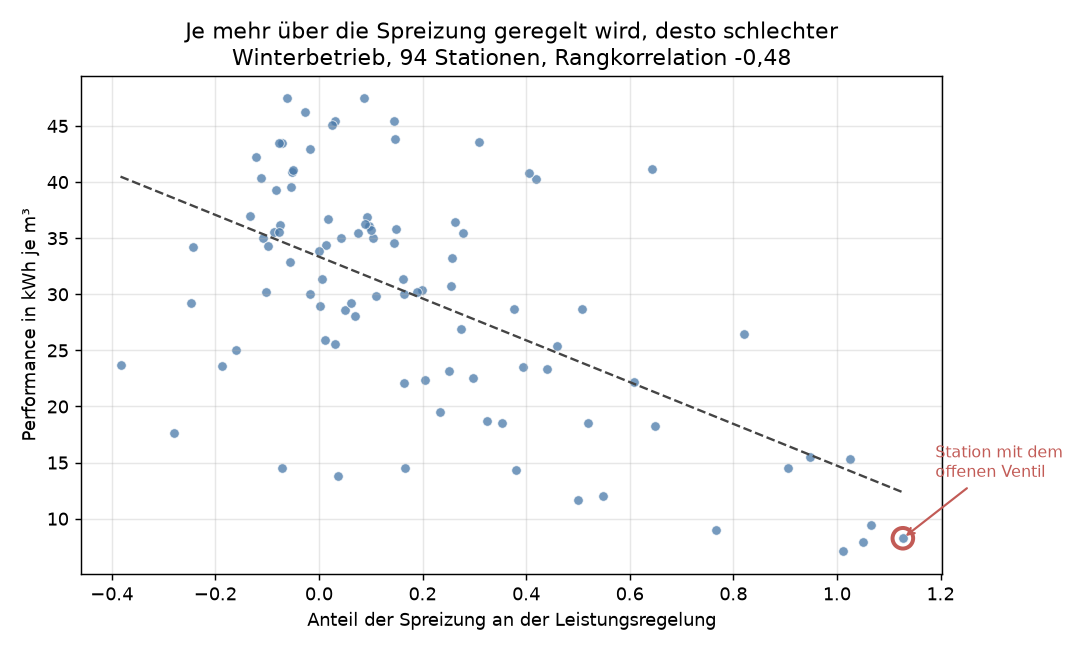
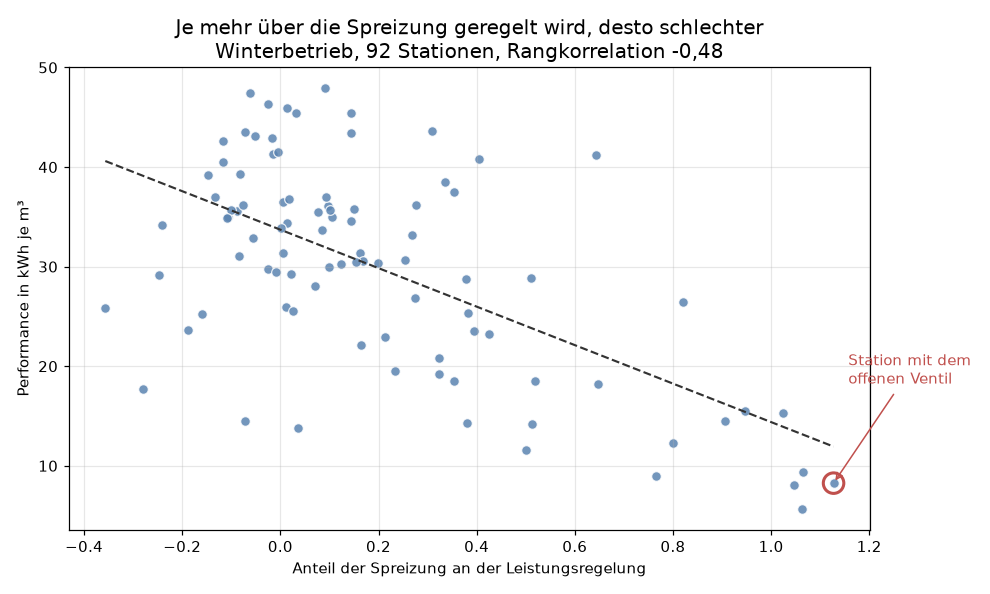
Doku: Stationsbilder und Befunde als Brücke vom Clustering zum Monitoring
- Seite als Geschichte in vier Schritten (NB 11 bis 14), jeder endet mit
  der Frage des nächsten; Einstieg aus dem Clustering, Ausstieg ins
  Monitoring (NB 18, 19, 20), Fallsammlung (NB 15) ergänzt.
- Zahlen gegen NB 11 bis 15 geprüft: Folie gegen Daten (Regelung statt
  Lage umgekehrt), Kennlinie vorher, Monitor gegen 53 Begehungen,
  Schwellenversuche, Residuenkanal, zweiter Ausschlag im Juni 2025.
- Bilder auf den aktuellen Stand: Trefferquote aus NB 14, Spreizung gegen
  Performance mit 92 Stationen neu gezeichnet.
- Überholtes entfernt (Stand 18.11., beantwortete Frage Monitor oder
  Clustering, doppelte ÜZ-Fragen mit Link auf die Grenzen-Seite).
- Clustering- und Monitoring-Überblick je ein kurzer Absatz als Anschluss.

diff --git a/docs/stationsbilder/index.md b/docs/stationsbilder/index.md
@@ -1,32 +1,51 @@
-# Stationsbilder, Kennlinienmonitor und Befunde (Notebooks 11 bis 14)
+# Stationsbilder und Befunde
 
-Stand 18.11.2026, 93 HAST. Vier Schritte, die aufeinander aufbauen. Die Fallsammlung in Notebook 15 ergänzt sie.
+**Notebooks 11 bis 15:** `notebooks/4_stationsbilder/` · **Code:** `src/ternaer.py`, `src/stationsbilder.py`,
+`src/kennlinien_monitor.py`, `src/befundcodes.py`, `src/fallsammlung.py`, Tests in den gleichnamigen Dateien unter
+`tests/`
 
-| Notebook | Frage | Ergebnis | Nutzbar? |
-|---|---|---|---|
-| 11 Ternär | Lässt sich die ÜZ-Folie nachbauen? | ja, aber die Folienaussage hat das falsche Vorzeichen | als Werkzeug nein, als Befund ja |
-| 12 Stationsbilder | Gibt es bessere Darstellungen? | Kennlinie und Carpet sind deutlich besser lesbar | ja, für Menschen |
-| 13 Kennlinienmonitor | Lässt sich das automatisieren? | Prinzip funktioniert, am bekannten Fall sehr klar, über alle Stationen nicht signifikant | Prototyp |
-| 14 Befunde | Liegt es an den Labels? | ja; mit besseren Labels trennt der Monitor | ja |
+## Woher wir kommen
 
-**Testfall für alles ist Zähler 68956351:** Dort stand ein Ventil drei Jahre offen und wurde im September 2024 repariert. Das ist der einzige Fall, bei dem wir aus den Messdaten sicher wissen, was passiert ist.
+Das [Clustering](../clustering/index.md) hat zwei Dinge gezeigt. Die Stationen zerfallen nicht in klare Typen, aber
+jede Station prägt ihre eigenen Tage. Ein Altbau mit Heizkörpern und ein Neubau mit Fußbodenheizung sehen verschieden
+aus, ohne dass etwas kaputt ist. Ein Vergleich der Stationen untereinander trägt deshalb nicht weit.
 
-## 1 Ternärdiagramme (Notebook 11)
+Dieser Teil geht den umgekehrten Weg. Er sieht sich einzelne Stationen genauer an und vergleicht sie am Ende mit sich
+selbst. In vier Schritten, von denen jeder die Frage des vorigen aufnimmt, entsteht so die Idee, auf der später das
+[Monitoring](../monitoring/index.md) aufbaut.
 
-**Idee:** Eine Station kann ihre Leistung über mehr Wasser (Volumenstrom) oder über mehr Wärmeentzug (Spreizung) anpassen. Das Dreieck zeigt, welcher Weg gerade benutzt wird.
+**Testfall ist Zähler 68956351.** Dort stand ein Ventil rund drei Jahre offen, im September 2024 wurden Ventil und
+Stellmotor getauscht (siehe [Einzelfall](../begehungen/wirkung.md#einzelfall-68956351)). Es ist der einzige Fall, bei
+dem wir aus den Messdaten sicher wissen, was passiert ist. Jeder Ansatz muss ihn finden.
+
+| Schritt | Notebook | Frage | Ergebnis | Nutzbar? |
+|---|---|---|---|---|
+| 1 | 11 Ternär | Lässt sich die Folie der ÜZ nachbauen? | ja, aber ihre Aussage zur Regelung über die Spreizung kehrt sich bei uns um | als Befund ja, als Werkzeug nein |
+| 2 | 12 Stationsbilder | Kann man besser hinsehen? | Kennlinie, Carpet-Plot und Dauerlinie zeigen den Ventilfall auf einen Blick | ja, für das Auge |
+| 3 | 13 Kennlinienmonitor | Lässt sich das automatisieren? | am bekannten Fall sehr klar, gegen alle Begehungen nicht signifikant | Prototyp |
+| 4 | 14 Befunde | Liegt es an den Labels? | ja, mechanische Eingriffe trifft der Monitor häufiger als Zufall | erste Prüfung über dem Zufall |
+
+## 1 Lässt sich die Folie der ÜZ nachbauen? (Notebook 11)
+
+**Idee:** Eine Station kann ihre Leistung über mehr Wasser (Volumenstrom) oder über mehr Wärmeentzug (Spreizung)
+anpassen. Die ÜZ hat das auf einer Folie als Dreieck gezeigt. Das Dreieck zeigt, welcher Weg gerade benutzt wird.
 
 ![Ternärdiagramme](../assets/stationsbilder/ueberblick_ternaer.png)
 
-- sechs Dreiecke für dieselbe Station: oben vor / während / nach der Begehung, unten die drei Jahreszeiten
-- jeder Punkt ist eine Betriebsstunde, Farbe = Effizienz (gelb gut, blau schlecht)
-- vorher Median 3,4 kWh/m³, nachher 36,4, also Faktor zehn
+- Sechs Dreiecke für dieselbe Station: oben vor, während und nach der Begehung, unten die drei Jahreszeiten.
+- Jeder Punkt ist eine Betriebsstunde, die Farbe ist die Effizienz (gelb gut, blau schlecht).
+- Vorher liegt der Median bei 3,4 kWh/m³, nachher bei 36,4, also rund zehnmal so hoch.
 
 ![Spreizung gegen Performance](../assets/stationsbilder/ueberblick_modulation.png)
 
-- jeder Punkt eine Station im Winter: waagerecht der Anteil Spreizungsregelung, senkrecht die Effizienz
-- je mehr Spreizungsregelung, desto schlechter (Rangkorrelation −0,48)
-- Auf der ÜZ-Folie ist die Spreizungsecke die gute Ecke. Bei uns ist es umgekehrt.
-- Erklärung: Eine Station mit festsitzendem Ventil kann gar nicht über den Volumenstrom regeln und landet deshalb automatisch dort.
+- Jeder Punkt ist eine Station im Winter: waagerecht der Anteil der Spreizung an der Leistungsregelung, senkrecht die
+  Effizienz.
+- Die Folie sagt: Wer über die Spreizung regelt, arbeitet effizient. Bei uns ist es umgekehrt. Je größer der Anteil
+  der Spreizung, desto schlechter (Rangkorrelation −0,48, 92 Stationen).
+- Die Lage der Punktwolke nahe der Spreizungsecke ist dagegen auch bei uns ein gutes Zeichen (+0,75). Vielleicht meint
+  die Folie die Lage und nicht die Regelung.
+- Erklärung: Eine Station mit festsitzendem Ventil kann ihre Leistung nur noch über die Spreizung ändern und zählt
+  deshalb automatisch als spreizungsgeregelt. 68956351 liegt im Bild ganz rechts unten.
 
 **Funktioniert:**
 
@@ -35,118 +54,168 @@ Stand 18.11.2026, 93 HAST. Vier Schritte, die aufeinander aufbauen. Die Fallsamm
 
 **Funktioniert nicht:**
 
-- Stationstypen clustern: drei Gruppen trennen die Effizienz um Faktor 3,7, aber die Silhouette liegt nur bei 0,319. Eher ein Gefälle als echte Typen.
+- Stationstypen clustern: Drei Gruppen trennen die Effizienz um Faktor 3,7, aber die Silhouette liegt nur bei 0,319.
+  Das ist eher ein Gefälle als echte Typen.
 - Die Regelungsart ändert sich durch die Begehung nicht (p = 0,70 auf Stunden-, 0,34 auf Tagesebene).
 
-**Fazit:** guter Befund zum Vorzeichen, aber zur Fehlererkennung taugt das Dreieck nicht. Es normiert die Leistung weg.
+**Daraus folgt:** Das Dreieck ist ein guter Befund zum Vorzeichen, aber kein Werkzeug zur Fehlererkennung. Es rechnet
+die Größen auf Anteile um und verliert dabei das Niveau, also wie viel Wasser fließt und wie warm es zurückkommt.
+Gesucht sind Bilder, die das Niveau zeigen.
 
-## 2 Kennlinie, Carpet-Plot, Dauerlinie (Notebook 12)
+## 2 Kann man besser hinsehen? (Notebook 12)
 
 ### Kennlinie
 
 ![Kennlinie](../assets/stationsbilder/ueberblick_kennlinie.png)
 
-- waagerecht Leistung, senkrecht Volumenstrom, beides logarithmisch. Farbe = Rücklauftemperatur.
-- vor der Begehung: flache rote Wolke. Egal wie viel Leistung, es fließen immer 500 bis 1000 l/h, Rücklauf über 70 °C. So sieht ein offenes Ventil aus.
-- nach der Begehung: saubere Gerade mit Steigung 1,28, Rücklauf blau
-- Die Steigung ist rechnerisch derselbe Wert wie der Durchflussanteil aus dem Dreieck. Zusätzlich sieht man, ob die Punkte überhaupt auf einer Linie liegen (R² im Median 0,02 bei flacher, 0,81 bei steiler Steigung).
+- Waagerecht die Leistung, senkrecht der Volumenstrom, beides logarithmisch. Die Farbe ist die Rücklauftemperatur.
+- Vor der Begehung: eine flache rote Wolke. Egal wie viel Leistung, es fließen rund 600 l/h (500 bis 1.000), der
+  Rücklauf liegt bei 65 bis 75 °C. So sieht ein offenes Ventil aus.
+- Nach der Begehung: eine saubere Gerade mit Steigung 1,28, der Rücklauf ist blau.
+- Die Steigung ist rechnerisch derselbe Wert wie der Durchflussanteil aus dem Dreieck. Zusätzlich sieht man, ob die
+  Punkte überhaupt auf einer Linie liegen (R² im Median 0,02 bei flacher, 0,81 bei steiler Steigung).
 
 ### Carpet-Plot
 
 ![Carpet-Plot](../assets/stationsbilder/ueberblick_carpet.png)
 
-- waagerecht die Kalenderzeit, senkrecht die Tagesstunde. Oben Rücklauf, unten Volumenstrom.
-- Ende 2022 bis September 2024: durchgehend rot, Tag und Nacht, Sommer wie Winter
-- danach blau mit Tagesstruktur (Nachtabsenkung, Warmwasserspitze morgens)
-- Nebenbefund: bis Ende 2022 lieferte die Station nur einen Wert pro Tag statt 24
+- Waagerecht die Kalenderzeit, senkrecht die Tagesstunde. Oben der Rücklauf, unten der Volumenstrom.
+- Ende 2022 bis September 2024: durchgehend rot, Tag und Nacht, Sommer wie Winter.
+- Danach blau mit Tagesstruktur (Nachtabsenkung, Warmwasserspitze am Morgen).
+- Nebenbefund: Bis Ende 2022 lieferte die Station nur einen Wert pro Tag statt 24.
 
 ### Dauerlinie
 
 ![Dauerlinie](../assets/stationsbilder/ueberblick_dauerlinie.png)
 
-- alle Stundenwerte nach Größe sortiert: in wie viel Prozent der Zeit wird ein Wert überschritten
-- vorher liegt der Rücklauf fast durchgehend über 50 °C, nachher nur noch in ca. 40 % der Zeit
-- einzige der drei Darstellungen, die über alle Stationen einen Begehungseffekt andeutet: Der Anteil der Stunden über 50 °C sinkt um 1,4 Prozentpunkte (47 Stationen, p = 0,096, nicht gesichert). Die Kennliniensteigung zeigt nichts (p = 0,67).
+- Alle Stundenwerte nach Größe sortiert: In wie viel Prozent der Zeit wird ein Wert überschritten?
+- Vorher liegt der Rücklauf fast durchgehend über 50 °C, nachher nur noch in rund 40 % der Zeit.
+- Als einzige der drei Darstellungen deutet sie über alle Stationen einen Begehungseffekt an: Der Anteil der Stunden
+  über 50 °C sinkt um 1,4 Prozentpunkte (47 Stationen, p = 0,096, nicht gesichert). Die Kennliniensteigung zeigt
+  nichts (p = 0,67).
 
-**Funktioniert:** Die Darstellungen messen verschiedene Dinge. Die zehn auffälligsten Stationen nach Kennlinienstreuung und nach warmem Rücklauf überschneiden sich gar nicht.
+**Funktioniert:** Die Darstellungen messen verschiedene Dinge. Die zehn auffälligsten Stationen nach
+Kennlinienstreuung und nach warmem Rücklauf überschneiden sich gar nicht.
 
-**Achtung:** Die Performance in kWh/m³ ist auf Stundenebene dasselbe wie die Spreizung (Performance = 1,163 × ΔT). Korrelationen gegen die Performance beweisen deshalb wenig. Unabhängig sind nur Prüfungen gegen die Begehungen.
+**Achtung:** Die Performance in kWh/m³ ist auf Stundenebene dasselbe wie die Spreizung (Performance = 1,163 × ΔT).
+Korrelationen gegen die Performance beweisen deshalb wenig. Unabhängig sind nur Prüfungen gegen die Begehungen.
 
-**Fazit:** gute Diagnosebilder, aber 93 Stationen von Hand anschauen ist keine Automatisierung.
+**Daraus folgt:** Die Bilder zeigen den Ventilfall auf einen Blick, aber 93 Stationen von Hand anzuschauen ist keine
+Automatisierung. Die Kennlinie eignet sich jedoch als eigenes Modell jeder Station. Wenn sie sich plötzlich
+verschiebt, ist etwas passiert.
 
-## 3 Kennlinienmonitor (Notebook 13)
+## 3 Die Station mit sich selbst vergleichen (Notebook 13)
 
-**Idee:** Bisher wurden Stationen untereinander verglichen. Das scheitert, weil ein Altbau mit Heizkörpern und ein Neubau mit Fußbodenheizung ganz verschieden aussehen, ohne dass etwas kaputt ist. Der Monitor vergleicht jede Station nur mit sich selbst: Hat sich die Kennlinie gegenüber den Wochen davor plötzlich verschoben? Das braucht keine Labels.
+**Idee:** Der Kennlinienmonitor vergleicht jede Station nur mit sich selbst. Hat sich ihre Kennlinie gegenüber den
+Wochen davor plötzlich verschoben? Das braucht keine Labels, und Altbau und Neubau stören sich nicht mehr gegenseitig.
 
 ![Monitorverlauf](../assets/stationsbilder/ueberblick_monitor_verlauf.png)
 
-- oben: Steigung der Kennlinie. Zwei Jahre flach bei null (offenes Ventil), am Begehungstermin Sprung auf 1,4.
-- Mitte: Abweichung vom gewohnten Arbeitspunkt. Vorher konstant bei ca. +0,8, danach im Minus.
-- unten: Alarmkanal. Der Ausschlag am 12.09.2024 erreicht 74, der größte Wert der ganzen Historie, drei Tage nach der Begehung.
+- Oben die Steigung der Kennlinie: zwei Jahre flach bei null (offenes Ventil), am Begehungstermin ein Sprung auf rund
+  1,4.
+- In der Mitte die Abweichung vom gewohnten Arbeitspunkt: vorher meist zwischen +0,5 und +0,8, danach im Minus.
+- Unten der Alarmkanal: Der Ausschlag am 12.09.2024 erreicht 74, der größte Wert in der Geschichte dieser Station, drei
+  Tage nach der Begehung. Der zweite große Ausschlag im Juni 2025 (knapp 50) ist ungeklärt.
 
-Der Monitor findet den bekannten Fall, ohne zu wissen, wonach er sucht.
+Der Monitor findet den bekannten Fall, ohne zu wissen, wonach er sucht. Der erste Entwurf fand ihn nicht: Im Juli und
+August 2024 läuft die Station nur rund 60 Stunden im Monat, ein starres 14-Tage-Fenster hat dann zu wenige Punkte.
+Das Fenster dehnt sich jetzt bis auf 60 Tage.
 
-Der erste Entwurf fand ihn nicht: Im Juli und August 2024 läuft die Station nur rund 60 Stunden im Monat, ein starres 14-Tage-Fenster hat dann zu wenige Punkte. Das Fenster dehnt sich jetzt bis auf 60 Tage.
-
-**Funktioniert:** Das Prinzip, und der bekannte Fall sehr deutlich.
+**Funktioniert:** das Prinzip, und der bekannte Fall sehr deutlich.
 
 **Funktioniert nicht:**
 
-- Über alle 93 Stationen nur 25 bis 34 % über Zufall, nicht signifikant (p = 0,10 und 0,077)
-- 16 Einstellungen probiert, keine wird belastbar signifikant
+- Gegen alle 53 Begehungen mit Monitorverlauf liegt die Trefferquote nur 25 bis 34 % über Zufall, nicht signifikant
+  (p = 0,10 und 0,077).
+- 16 Einstellungen wurden probiert. Der Hebel gegenüber dem Zufall steigt mit der Alarmschwelle bis rund 2,1 (kleinstes
+  p 0,012). Bei so vielen Versuchen ist ein einzelnes p aber nicht belastbar.
 - Der stärkste Alarm je Station trifft die Begehungen schlechter als Zufall.
-- Die Gruppe ohne dokumentierten Eingriff schneidet besser ab als die mit. Das war der Anlass für Notebook 14.
+- Im Parameterkanal schneiden Begehungen ohne dokumentierten Eingriff sogar besser ab als die mit (Hebel 1,57 gegen
+  1,14).
 
-## 4 Begehungsnotizen als Labels (Notebook 14)
+**Daraus folgt:** Liegt es am Monitor oder am Maßstab? Bei 68956351 kennen die Spalten der Begehungstabelle nur eine
+Sollwertänderung, nicht den Tausch von Ventil und Stellmotor.
 
-**Bisherige Labels:** die Alt-Neu-Spalten der Begehungstabelle (Heizzeit, Rücklaufsollwert). Daneben gibt es eine Freitextspalte des Monteurs, vorhanden bei 57 von 66 Begehungen und bisher ungenutzt. Bei 68956351 steht der Stellmotortausch nur dort.
+## 4 Liegt es an den Labels? (Notebook 14)
 
-**Vorgehen:** Die 57 Notizen werden regelbasiert in neun Fehlerkategorien kodiert, abgesichert mit 37 Tests. Knifflig sind Verneinungen: „Schmutzfänger stark voll" ist ein Fehler, „fast leer" nicht.
+**Bisherige Labels:** die Alt-Neu-Spalten der Begehungstabelle (Heizzeit, Rücklaufsollwert). Daneben gibt es eine
+Freitextspalte des Monteurs, vorhanden bei 57 von 66 Begehungen und bisher ungenutzt. Bei 68956351 steht der
+Stellmotortausch nur dort.
+
+**Vorgehen:** Die 57 Notizen werden regelbasiert in neun Fehlerkategorien kodiert, abgesichert mit 37 Tests. Knifflig
+sind Verneinungen: „Schmutzfänger stark voll“ ist ein Fehler, „fast leer“ nicht.
 
 ![Fehlerrangliste](../assets/stationsbilder/befunde_rangliste.png)
 
-- Häufigkeit der Fehlerarten in den 57 Notizen, rot = mechanische Eingriffe
+- Häufigkeit der Fehlerarten in den 57 Notizen, rot sind mechanische Eingriffe.
 - Das ist die Häufigkeit in den Notizen, nicht im Netz.
 
 ![Vierfeldertafel](../assets/stationsbilder/befunde_vierfelder.png)
 
-- 6 Begehungen nennen im Text einen Fehler, ohne dass sich ein Sollwert geändert hat. Die galten bisher als „nichts passiert".
-- 18 Fälle mit Sollwertänderung, aber ohne Befund im Text
+- 6 Begehungen nennen im Text einen Fehler, ohne dass sich ein Sollwert geändert hat. Sie galten bisher als „nichts
+  passiert“.
+- 18 Begehungen haben eine Sollwertänderung, aber keinen Befund im Text.
 - Keine der beiden Quellen ist vollständig.
 
-**Gegenprobe:** Der Monitor sieht nur hydraulische Änderungen. Ein getauschtes Ventil ändert die Kennlinie, eine verschobene Heizzeit nicht. Bei mechanischen Eingriffen müsste er also besser treffen.
+**Gegenprobe:** Der Monitor sieht nur hydraulische Änderungen. Ein getauschtes Ventil ändert die Kennlinie, eine
+verschobene Heizzeit nicht. Bei mechanischen Eingriffen müsste er also besser treffen.
 
 ![Trefferquote je Gruppe](../assets/stationsbilder/befunde_monitor_split.png)
 
-- links Begehungen mit mechanischem Befund, rechts alle anderen. Die gestrichelte Linie ist die Zufallsbasis.
-- mechanisch: 10 von 19 Treffer statt erwarteter 5,6 (p = 0,030)
-- alle anderen: Zufallsniveau
+- Links die Begehungen mit mechanischem Befund, rechts alle anderen. Blau ist der Parameterkanal, rot der
+  Residuenkanal, die gestrichelten Linien sind die Zufallsbasis des jeweiligen Kanals.
+- Der Residuenkanal trifft 10 von 19 mechanischen Begehungen, erwartet wären 5,6 (p = 0,030). Der Parameterkanal
+  trifft 9 von 19 und trennt nicht.
+- Alle übrigen Begehungen liegen auf Zufallsniveau (Residuenkanal 11 von 39).
 
-Das ist die erste Prüfung gegen die Ground Truth, die über den Zufall hinauskommt.
+Das ist die erste Prüfung gegen die Befunde der Begehungen, die über den Zufall hinauskommt.
 
 **Einschränkungen:**
 
 - 19 Termine sind wenig, ein Fall verschiebt die Quote um 5 Prozentpunkte.
-- Die Teilung wurde erst nach dem Nullergebnis gewählt. Sauber wäre: Regel vorher festlegen und an neuen Begehungen prüfen.
-- p-Werte sind einseitig. Zweiseitig 0,041 und 0,086.
+- Die Teilung wurde erst nach dem Nullergebnis gewählt. Sauber wäre: Regel vorher festlegen und an neuen Begehungen
+  prüfen.
+- Die p-Werte sind einseitig, zweiseitig sind es 0,041 und 0,086.
 - 58 Termine auf 51 Stationen, also nicht alle unabhängig.
 
-## Was wir jetzt haben
+## Am Rand: die Fallsammlung (Notebook 15)
 
-- einen Prototyp, der ohne Labels läuft und die einzige bekannte Reparatur am stärksten anzeigt
-- zum ersten Mal ein Validierungsergebnis über dem Zufall
-- Klarheit, welcher Kanal nützlich ist: der Residuenkanal, der Parameterkanal trennt nicht
-- einen Beleg statt einer Vermutung, dass die bisherigen Labels unvollständig waren
+Notebook 15 kehrt noch einmal zum Dreieck aus Schritt 1 zurück und sammelt die Begehungen als Einzelfälle.
 
-## Was noch fehlt
+- **Methodischer Befund:** Ein Vorher-Nachher-Vergleich ohne gleiche Jahreszeit kann das Ergebnis umdrehen. Naiv
+  verbessern sich die Stationen ohne Begehung (+1,28 kWh/m³ gegen −0,29), im reinen Winterschnitt die begangenen
+  (+0,81 gegen −0,76). Das betrifft auch Notebook 11.
+- **Screening:** 12 Stationen regeln überwiegend über die Spreizung, 10 davon liegen im schwächsten Viertel der
+  Effizienz. Daraus entstehen 7 Vorschläge für Stationen, die noch nie begangen wurden.
 
-- Entscheidungsbaum: Die größte Fehlerkategorie hat 9 Fälle, das reicht nicht für Training und Test.
-- Kausalität: Dafür bräuchte es eine Kontrollgruppe nicht begangener Stationen.
-- Zählertausch: Ein Teil der großen Ausschläge könnte ein gewechselter Zähler sein. Ein Tauschdatum gibt es nirgends.
+## Wie es weiterging
 
-## Offene Fragen
+Am Ende dieser Schritte stand die Frage: Monitor weiterverfolgen oder zurück zum Clustering? Das Projekt hat den
+Monitor weiterverfolgt. Mitgenommen wurde:
 
-- Passen die neun Fehlerkategorien fachlich? Bleiben Zirkulation und Pumpe getrennt?
-- Kann die ÜZ Zählertauschdaten mit Datum liefern?
-- Drei Notizen lassen sich nicht einordnen (ein Defekt ohne klare Zuordnung, zwei Messwerte ohne Bewertung). Befund oder Normalwert?
-- Monitor weiterverfolgen oder zurück zum Clustering? Der Monitor ist bisher der einzige Ansatz, der etwas getroffen hat.
+- ein Prototyp, der ohne Labels läuft und die einzige bekannte Reparatur am stärksten anzeigt,
+- zum ersten Mal ein Prüfergebnis über dem Zufall,
+- die Erkenntnis, dass der Residuenkanal nützlich ist und der Parameterkanal nicht trennt,
+- ein Beleg statt einer Vermutung, dass die bisherigen Labels unvollständig waren.
+
+Daraus ist das [Monitoring](../monitoring/index.md) geworden:
+
+- Das [Normalverhaltensmodell](../monitoring/normalverhalten.md) (Notebook 18) vergleicht jede Station mit sich
+  selbst, wetterbereinigt auf Tageswerten. Es übernimmt den Befund aus den Schritten 1 und 2, dass Begehungen eher das
+  Niveau der Performance verschieben als die Form der Kennlinie, und nutzt die Befundcodes aus Schritt 4 weiter.
+- Der [Tagesmonitor](../monitoring/tagesmonitor.md) (Notebook 20) setzt diese Idee als Modul für den Betrieb um und
+  ersetzt den Fensteralarm des Kennlinienmonitors.
+- Der [Netzvergleich](../monitoring/netzvergleich.md) (Notebook 19) baut auf dem Modul des Kennlinienmonitors auf und
+  vergleicht jede Station zusätzlich mit allen anderen.
+
+## Was offen bleibt
+
+- **Entscheidungsbaum:** Die größte Fehlerkategorie hat 9 Fälle. Das reicht nicht für Training und Test.
+- **Kontrollgruppe:** In diesen Notebooks fehlt ein Vergleich mit Stationen ohne Begehung. Für den Vergleich jeder
+  Station mit sich selbst bringen ihn das Normalverhaltensmodell und der Tagesmonitor.
+- **Zählertausch:** Ein Teil der großen Ausschläge könnte ein gewechselter Zähler sein. Ein Tauschdatum gibt es
+  nirgends.
+- **Drei Notizen** lassen sich nicht einordnen: ein Defekt ohne klare Zuordnung und zwei Messwerte ohne Bewertung.
+
+Die Fragen an die ÜZ, etwa nach Tauschdaten und nach dem Zuschnitt der Fehlerkategorien, stehen gesammelt unter
+[Offene Fragen an die ÜZ](../grenzen/index.md#offene-fragen-an-die-uz).

diff --git a/docs/monitoring/index.md b/docs/monitoring/index.md
@@ -8,6 +8,10 @@ zwei Vergleiche:
 - **Station gegen Netz:** Läuft die Station schlechter als die anderen Stationen im selben Winter?
 - **Station gegen sich selbst:** Läuft die Station schlechter als in ihrem ersten Jahr bei gleichem Wetter?
 
+Den Vergleich einer Station mit sich selbst hat zuerst der Kennlinienmonitor erprobt (Notebook 13, siehe
+[Stationsbilder und Befunde](../stationsbilder/index.md)). Er fand den bekannten Ventilfall 68956351 ohne Label und
+traf mechanische Eingriffe häufiger als der Zufall. Daran knüpft dieser Teil an.
+
 Aus beiden Vergleichen ist das **Monitoring-Modell** entstanden: der Netzvergleich (Notebook 19) und der Tagesmonitor
 mit CUSUM (Notebook 20), ergänzt um das Potenzial gegenüber dem besten Viertel (Notebook 22). Es ist eines der beiden
 Modelle, die unter [Modelle vergleichen](../vergleich/modellvergleich.md) gegen das LSTM-Modell antreten, und liefert im

diff --git a/docs/clustering/index.md b/docs/clustering/index.md
@@ -60,6 +60,12 @@ Alle Notebooks liegen unter `notebooks/3_clustering/` und laufen nach Notebook 0
 - **Die Begehungen trennen die Cluster nicht.** Kein Cluster ist signifikant maßnahmenreicher (08), der Abgleich der
   Stundenzustände bleibt ohne p < 0,05 (09). Das Problem ist das Label, nicht die Methode.
 
+## Wie es weitergeht
+
+Die Stationen teilen sich nicht in Typen, aber jede prägt ihre eigenen Tage. Der nächste Teil,
+[Stationsbilder und Befunde](../stationsbilder/index.md), zieht daraus die Konsequenz: Er sieht sich einzelne
+Stationen genauer an und vergleicht sie am Ende mit sich selbst.
+
 ## Ausgaben
 
 Alle Tabellen landen unter `data/processed/` und bleiben lokal.
